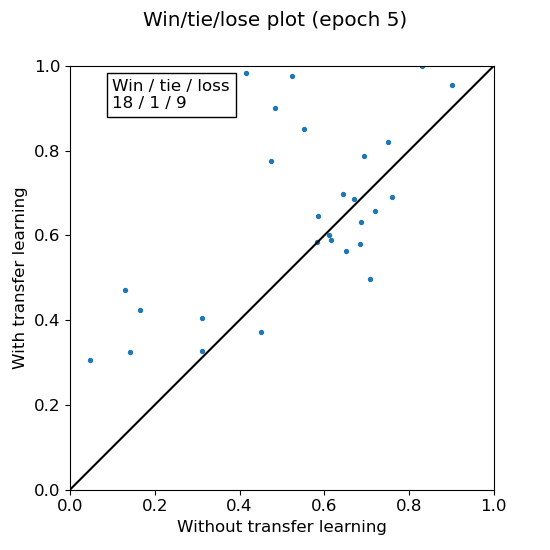
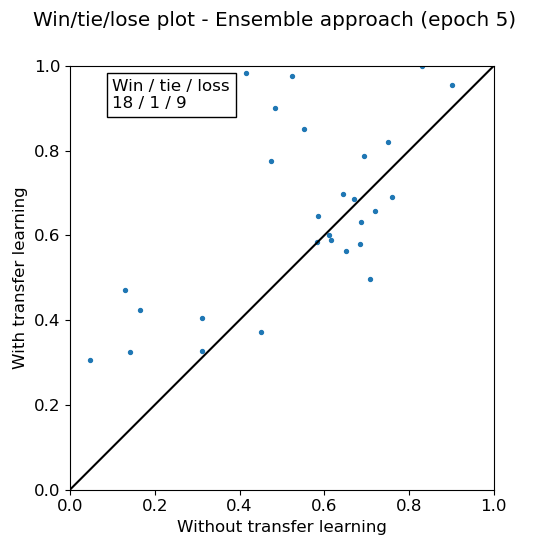
added approach name

Changed region(s): [[0.0618, 0.0, 0.9582, 0.0618]]

diff --git a/src/results/utils.py b/src/results/utils.py
@@ -14,7 +14,15 @@ from mlflow.entities import Run
 
 
 class Results(metaclass=ABCMeta):
-    results_root_path = os.path.dirname(__file__)
+    @property
+    @abstractmethod
+    def results_root_path(self):
+        pass
+
+    @property
+    @abstractmethod
+    def approach_name(self):
+        pass
 
     @property
     @abstractmethod
@@ -143,7 +151,7 @@ class Results(metaclass=ABCMeta):
                 linestyle="--" if "no transfer" in metric_name.lower() else "-",
                 axes=ax,
             )
-        figure.suptitle(f"Model {full_metric_name}")
+        figure.suptitle(f"Model {full_metric_name} - {self.approach_name} approach")
         ax.set_ylabel(full_metric_name)
         ax.set_xlabel("epoch")
         ax.legend()
@@ -186,7 +194,9 @@ class Results(metaclass=ABCMeta):
         figure, ax = plt.subplots(figsize=(5.5, 5.5))
         plt.scatter(*list(zip(*epoch_acc_pairs)), s=8)
         plt.plot([-10, 10], [-10, 10], color="black")
-        figure.suptitle(f"Win/tie/lose plot (epoch {epoch})")
+        figure.suptitle(
+            f"Win/tie/lose plot - {self.approach_name} approach (epoch {epoch})"
+        )
         ax.set_ylabel("With transfer learning")
         ax.set_xlabel("Without transfer learning")
         plt.xlim([0, 1])

diff --git a/src/results/baseline/get_metrics_per_epoch.py b/src/results/baseline/get_metrics_per_epoch.py
@@ -4,6 +4,7 @@ from results.utils import Results
 
 
 class BaselineResults(Results):
+    approach_name = "Baseline"
     results_root_path = os.path.dirname(__file__)
     transfer_learning_key_name_loss = "baseline_loss"
     transfer_learning_key_name_val_loss = "baseline_val_loss"

diff --git a/src/results/ensemble/get_metrics_per_epoch.py b/src/results/ensemble/get_metrics_per_epoch.py
@@ -4,6 +4,7 @@ from results.utils import Results
 
 
 class EnsembleResults(Results):
+    approach_name = "Ensemble"
     results_root_path = os.path.dirname(__file__)
     transfer_learning_key_name_loss = "ensemble_loss"
     transfer_learning_key_name_val_loss = "ensemble_val_loss"
